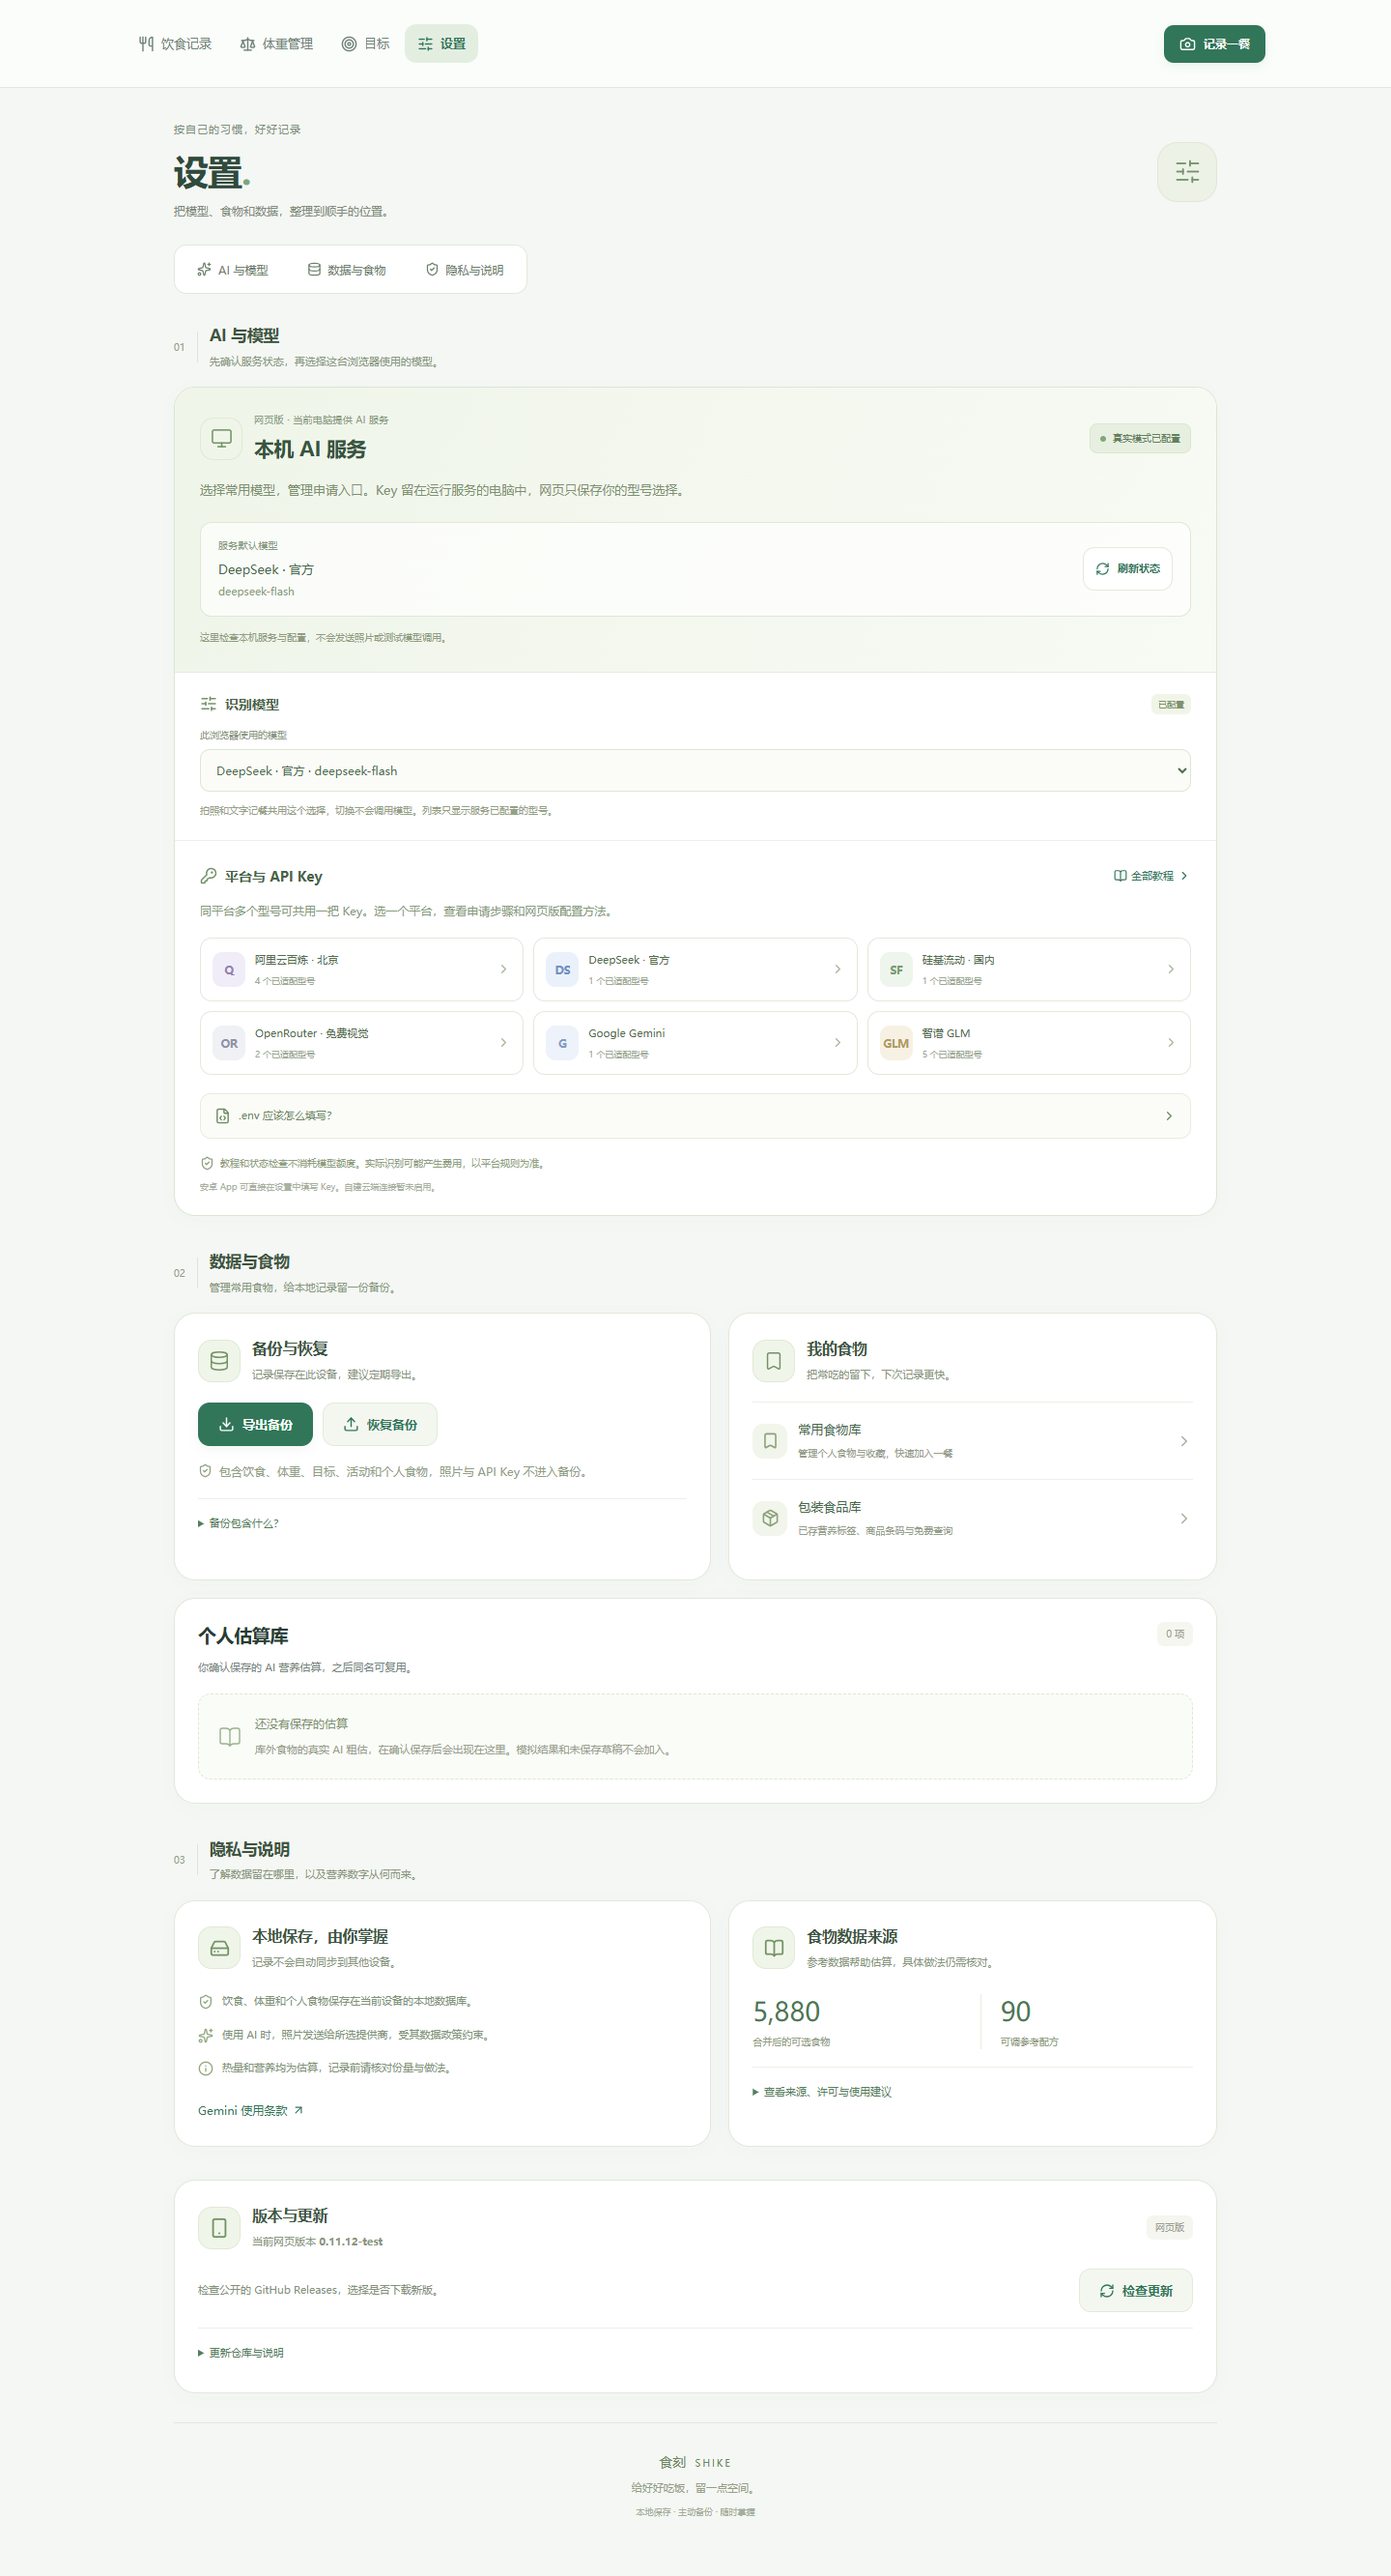
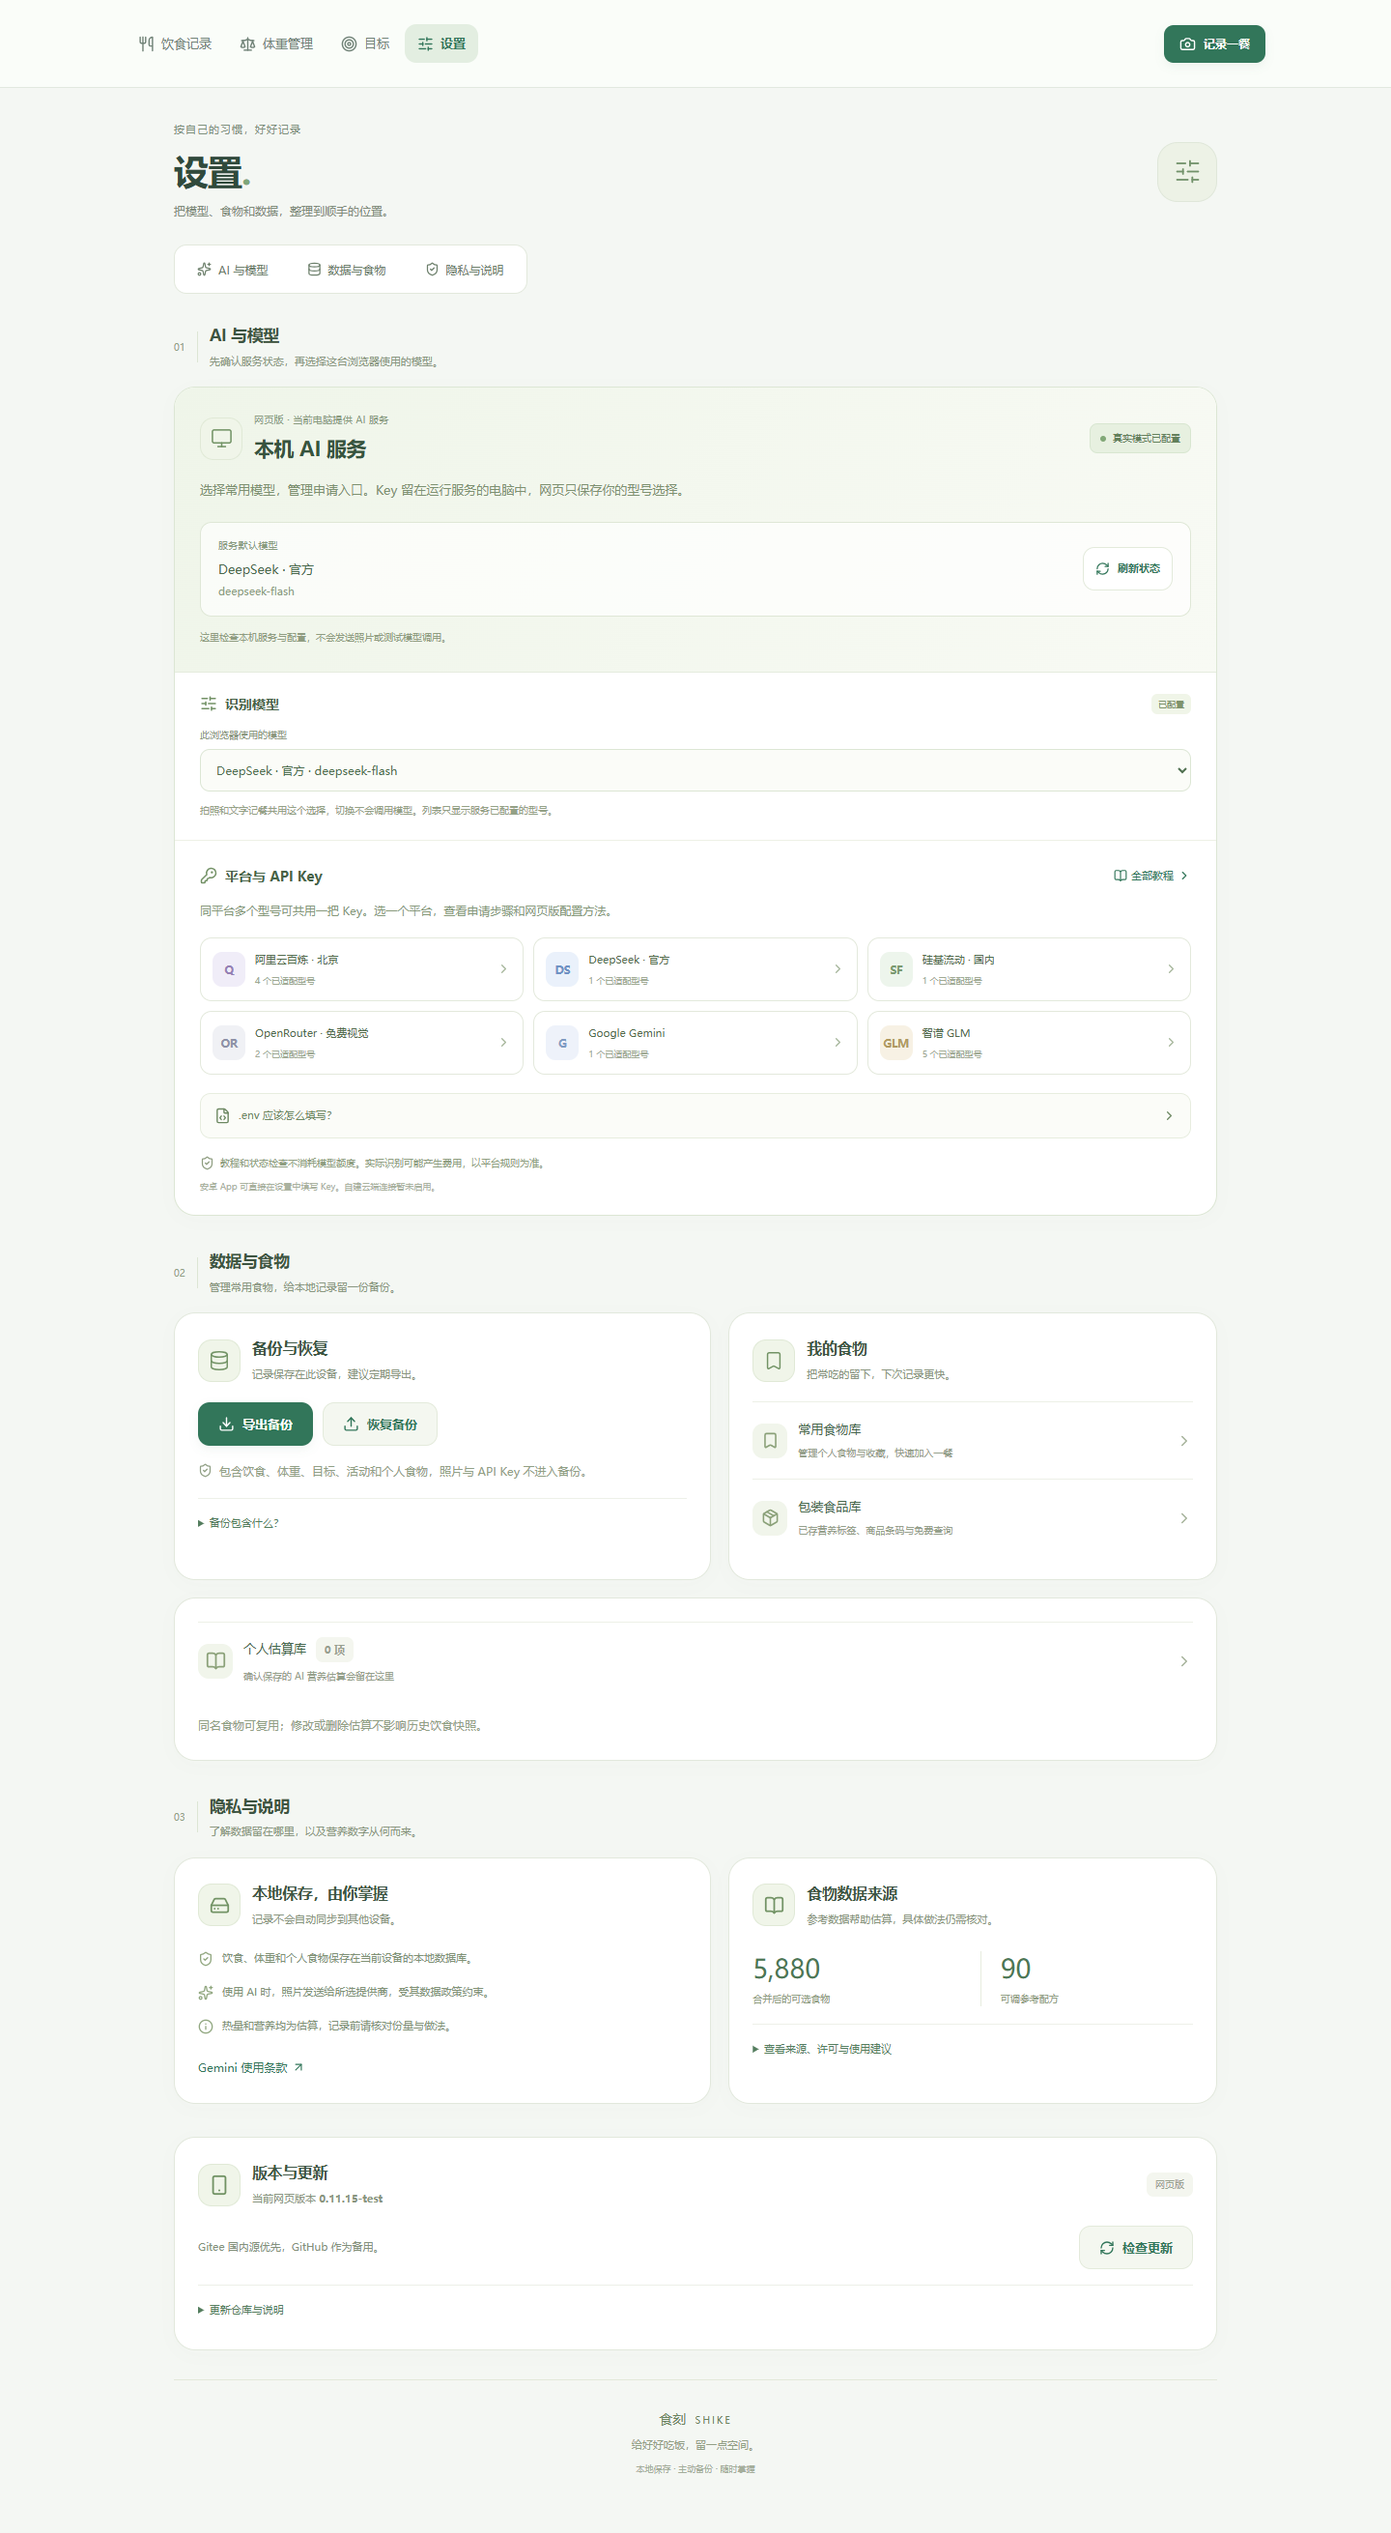
feat(settings): 收起估算长列表并支持搜索和分批管理

diff --git a/packages/web/src/views/SettingsView.vue b/packages/web/src/views/SettingsView.vue
@@ -1,15 +1,15 @@
 <script setup lang="ts">
 import { ref } from 'vue'
-import { Download, Upload, ShieldCheck, Database, ArrowUpRight, Info, Check, LoaderCircle, HardDrive, Sparkles, BookOpen, Trash2, Bookmark, Package, ChevronRight, SlidersHorizontal } from '@lucide/vue'
+import { Download, Upload, ShieldCheck, Database, ArrowUpRight, Info, Check, LoaderCircle, HardDrive, Sparkles, BookOpen, Bookmark, Package, ChevronRight, SlidersHorizontal } from '@lucide/vue'
 import { foods, catalogFoods, recipes, personalProviderName, type Backup, type EstimatedFood } from '@shike/shared'
 import { db, exportBackup, parseBackup, restoreBackup } from '../lib/db'
 import type { Health } from '../lib/api'
-import { numberLabel } from '../lib/dates'
 import { personalVisionSupported } from '../lib/personal-vision'
 import { saveBackupFile } from '../lib/backup-file'
 import AIConnection from '../components/AIConnection.vue'
 import PackagedLibrary from '../components/PackagedLibrary.vue'
 import AppUpdates from '../components/AppUpdates.vue'
+import EstimatedFoodLibrary from '../components/EstimatedFoodLibrary.vue'
 const libraryOpen = ref(false)
 const props = defineProps<{ health: Health | null; healthError: string; estimatedFoods: EstimatedFood[]; checkingHealth?: boolean }>()
 const emit = defineEmits<{ changed: []; notify: [message: string]; checkHealth: []; openFoodLibrary: [] }>()
@@ -84,7 +84,7 @@ async function removeEstimate(food: EstimatedFood) {
         </article>
         <article class="card settings-card settings-food-tools"><div class="settings-card-title"><span class="settings-feature-icon"><Bookmark :size="22" stroke-width="1.6" /></span><div><h2>我的食物</h2><p>把常吃的留下，下次记录更快。</p></div></div><button type="button" class="settings-tool-row" data-testid="settings-food-library" @click="emit('openFoodLibrary')"><span class="settings-tool-icon"><Bookmark :size="19" /></span><span><strong>常用食物库</strong><small>管理个人食物与收藏，快速加入一餐</small></span><ChevronRight :size="18" /></button><button type="button" class="settings-tool-row" data-testid="manage-packaged-foods" @click="libraryOpen = true"><span class="settings-tool-icon"><Package :size="19" /></span><span><strong>包装食品库</strong><small>已存营养标签、商品条码与免费查询</small></span><ChevronRight :size="18" /></button></article>
       </div>
-      <article class="card settings-card personal-library settings-estimate-card"><div class="section-heading"><div><h2>个人估算库</h2><p class="small-text muted">你确认保存的 AI 营养估算，之后同名可复用。</p></div><span class="soft-tag" data-testid="estimated-food-count">{{ estimatedFoods.length }} 项</span></div><div v-if="!estimatedFoods.length" class="personal-empty settings-estimate-empty"><BookOpen :size="24" stroke-width="1.4" /><div><strong>还没有保存的估算</strong><p>库外食物的真实 AI 粗估，在确认保存后会出现在这里。模拟结果和未保存草稿不会加入。</p></div></div><div v-for="(food, index) in estimatedFoods" :key="food.id" class="personal-food-row" :data-testid="'estimated-food-' + index"><div><strong>{{ food.name }}</strong><p>{{ food.provider === 'mock' ? '导入的模拟估算 · 不参与真实匹配' : 'AI 粗估 · 未经测量' }} · {{ food.model }}</p><details><summary>查看假设</summary><p>{{ food.assumptions.join(' ') || '请核对用油、糖和含水量。' }}</p></details></div><span>{{ food.nutrientsPer100g.energyKcal === null ? '热量待补充' : '约 ' + numberLabel(food.nutrientsPer100g.energyKcal) + ' kcal / 100 g' }}</span><button class="icon-button small" data-testid="delete-estimated-food" :aria-label="'删除个人估算' + food.name" @click="removeEstimate(food)"><Trash2 :size="15" /></button></div><p v-if="estimatedFoods.length" class="tiny muted library-note">估算未经测量，不属于 USDA 数据。更新或删除条目不会改写已保存的历史记录。</p></article>
+      <EstimatedFoodLibrary :foods="estimatedFoods" @remove="removeEstimate" />
     </section>
 
     <section id="settings-about" class="settings-group" tabindex="-1" aria-labelledby="settings-about-title">

diff --git a/packages/web/src/components/EstimatedFoodLibrary.vue b/packages/web/src/components/EstimatedFoodLibrary.vue
@@ -1,0 +1,38 @@
+<script setup lang="ts">
+import { computed, ref, watch } from 'vue'
+import { BookOpen, Search, ChevronRight, Trash2 } from '@lucide/vue'
+import type { EstimatedFood } from '@shike/shared'
+import AppSheet from './AppSheet.vue'
+import { numberLabel } from '../lib/dates'
+const props = defineProps<{ foods: EstimatedFood[] }>()
+const emit = defineEmits<{ remove: [food: EstimatedFood] }>()
+const open = ref(false), query = ref(''), limit = ref(10)
+const filtered = computed(() => {
+  const text = query.value.trim().toLocaleLowerCase()
+  return props.foods.filter(food => !text || `${food.name} ${food.model}`.toLocaleLowerCase().includes(text))
+})
+watch(query, () => { limit.value = 10 })
+function show() { query.value = ''; limit.value = 10; open.value = true }
+</script>
+<template>
+  <article class="card settings-card settings-estimate-card" data-testid="settings-estimate-card">
+    <button type="button" class="settings-tool-row estimate-library-entry" data-testid="manage-estimates" @click="show">
+      <span class="settings-tool-icon"><BookOpen :size="21"/></span>
+      <span><strong>个人估算库 <b class="soft-tag" data-testid="estimated-food-count">{{ foods.length }} 项</b></strong><small>{{ foods.length ? '搜索和管理已保存的 AI 营养估算' : '确认保存的 AI 营养估算会留在这里' }}</small></span><ChevronRight :size="18"/>
+    </button>
+    <p class="tiny muted library-note">同名食物可复用；修改或删除估算不影响历史饮食快照。</p>
+  </article>
+  <AppSheet :open="open" title="个人估算库" subtitle="搜索、核对与管理已确认保存的 AI 估算" test-id="estimate-library" @close="open = false">
+    <label class="estimate-search"><Search :size="18"/><input v-model="query" type="search" aria-label="搜索个人估算" placeholder="搜索食物名称或模型" data-testid="estimate-search"/></label>
+    <p class="tiny muted estimate-result-count">{{ filtered.length }} 项{{ query.trim() ? '匹配结果' : '已保存估算' }} · AI 粗估，未经测量</p>
+    <div v-if="!filtered.length" class="personal-empty"><BookOpen :size="26"/><p>{{ foods.length ? '没有找到匹配的估算，试试其他名称。' : '还没有保存的估算。真实 AI 粗估在确认保存后会出现在这里。' }}</p></div>
+    <article v-for="(food, index) in filtered.slice(0, limit)" :key="food.id" class="estimate-library-item" :data-testid="`estimated-food-${index}`">
+      <div><strong>{{ food.name }}</strong><button class="icon-button" data-testid="delete-estimated-food" :aria-label="`删除个人估算${food.name}`" @click="emit('remove', food)"><Trash2 :size="16"/></button></div>
+      <p>{{ food.nutrientsPer100g.energyKcal === null ? '热量待补充' : `约 ${numberLabel(food.nutrientsPer100g.energyKcal)} kcal / 100 g` }}</p>
+      <small class="muted">{{ food.provider === 'mock' ? '导入的模拟估算 · 不参与真实匹配' : 'AI 粗估 · 未经测量' }} · {{ food.model }}</small>
+      <details class="settings-inline-details"><summary>查看估算假设</summary><p>{{ food.assumptions.join(' ') || '请核对用油、糖和含水量。' }}</p></details>
+    </article>
+    <button v-if="filtered.length > limit" class="button secondary estimate-load-more" data-testid="estimate-load-more" @click="limit += 10">再显示 {{ Math.min(10, filtered.length - limit) }} 项</button>
+    <p class="tiny muted library-note">估算不属于 USDA 参考数据。照片和未保存草稿不会加入此库。</p>
+  </AppSheet>
+</template>

diff --git a/packages/web/tests/EstimatedFoodLibrary.test.ts b/packages/web/tests/EstimatedFoodLibrary.test.ts
@@ -1,0 +1,20 @@
+// @vitest-environment happy-dom
+import { mount } from '@vue/test-utils'
+import { describe, expect, it } from 'vitest'
+import type { EstimatedFood } from '@shike/shared'
+import EstimatedFoodLibrary from '../src/components/EstimatedFoodLibrary.vue'
+const foods: EstimatedFood[] = Array.from({ length: 35 }, (_, index) => ({ id: `food-${index}`, name: `测试估算${index}`, model: 'test-model', provider: 'qwen', createdAt: '2026-10-26T00:00:00Z', updatedAt: '2026-10-26T00:00:00Z', nutrientsPer100g: { energyKcal: index === 0 ? null : 100, proteinG: null, fatG: 0, carbsG: null }, provenance: '测试', assumptions: ['用油待核对'] }))
+describe('设置估算库按需管理', () => {
+  it('主页只展示摘要，打开后分页和搜索；删除事件携带原条目', async () => {
+    const wrapper = mount(EstimatedFoodLibrary, { props: { foods }, global: { stubs: { AppSheet: { props: ['open'], template: '<section v-if="open"><slot/></section>' } } } })
+    expect(wrapper.findAll('[data-testid^="estimated-food-"]')).toHaveLength(1) // 只有数量徽章
+    await wrapper.get('[data-testid="manage-estimates"]').trigger('click')
+    expect(wrapper.findAll('.estimate-library-item')).toHaveLength(10)
+    expect(wrapper.get('[data-testid="estimated-food-0"]').text()).toContain('热量待补充')
+    await wrapper.get('[data-testid="estimate-load-more"]').trigger('click'); expect(wrapper.findAll('.estimate-library-item')).toHaveLength(20)
+    await wrapper.get('[data-testid="estimate-search"]').setValue('估算34'); expect(wrapper.findAll('.estimate-library-item')).toHaveLength(1)
+    await wrapper.get('[data-testid="delete-estimated-food"]').trigger('click'); expect(wrapper.emitted('remove')?.[0]).toEqual([foods[34]])
+    await wrapper.get('[data-testid="estimate-search"]').setValue('找不到'); expect(wrapper.text()).toContain('没有找到匹配')
+    wrapper.unmount()
+  })
+})

diff --git a/packages/web/src/settings.css b/packages/web/src/settings.css
@@ -197,3 +197,13 @@
 .model-config-sheet .model-cost-note { overflow-wrap: anywhere; }
 .model-config-footer { display: grid; grid-template-columns: minmax(0, 1fr) minmax(0, 1.5fr); gap: 10px; width: 100%; }
 .model-config-footer .button { min-width: 0; padding-inline: 8px; }
+.estimate-library-entry { width: 100%; }
+.estimate-library-entry .soft-tag { margin-left: 6px; font-size: 11px; }
+.estimate-search { display: flex; align-items: center; gap: 8px; }
+.estimate-search input { min-width: 0; flex: 1; }
+.estimate-result-count { margin: 12px 0; }
+.estimate-library-item { padding: 14px 0; border-bottom: 1px solid #e6ecdf; overflow-wrap: anywhere; }
+.estimate-library-item > div { display: flex; align-items: center; justify-content: space-between; gap: 12px; }
+.estimate-library-item > p { margin: 6px 0; font-size: 13px; color: #367b62; }
+.estimate-library-item > small { font-size: 11px; }
+.estimate-load-more { width: 100%; margin-top: 16px; }

diff --git a/tests/e2e/app.spec.ts b/tests/e2e/app.spec.ts
@@ -186,7 +186,9 @@ test('百炼估算兼容旧 Gemini 缓存，中值切档保存、历史保留及
   await expect(page.getByTestId('food-editor')).toHaveCount(0);
   await openTab(page, 'settings');
   await expect(page.getByTestId('estimated-food-count')).toHaveText('1 项');
+  await page.getByTestId('manage-estimates').click();
   await expect(page.getByTestId('estimated-food-0')).toContainText('杂粮粥');
+  await page.keyboard.press('Escape');
   await openTab(page, 'diary');
   await page.reload();
   await expect(page.getByTestId('daily-range')).toBeVisible();

diff --git a/docs/web-settings.md b/docs/web-settings.md
@@ -14,7 +14,7 @@
 
 ## 数据与食物
 
-备份与恢复、常用食物库、包装食品库集中在这一块。个人估算库继续显示已确认的AI估算及假设。空库使用简短提示；数据来源、许可和完整备份范围放在可展开说明中。
+备份与恢复、常用食物库、包装食品库集中在这一块。个人估算库收为一个带数量的入口，点击后在独立弹窗中搜索食物名称或模型、查看假设及删除。首次显示10项，可每次再显示10项；搜索会重置显示数量。关闭后恢复入口焦点，不在设置主页展开长列表。空库使用简短提示；数据来源、许可和完整备份范围放在可展开说明中。
 
 导入备份后先检查文件与条数，再点击「确认替换并恢复」。恢复会替换当前设备的记录、资料和个人食物，确认前仍应保存当前备份。常用食物与包装食品通过原有弹窗管理，关闭后回到设置页。
 
